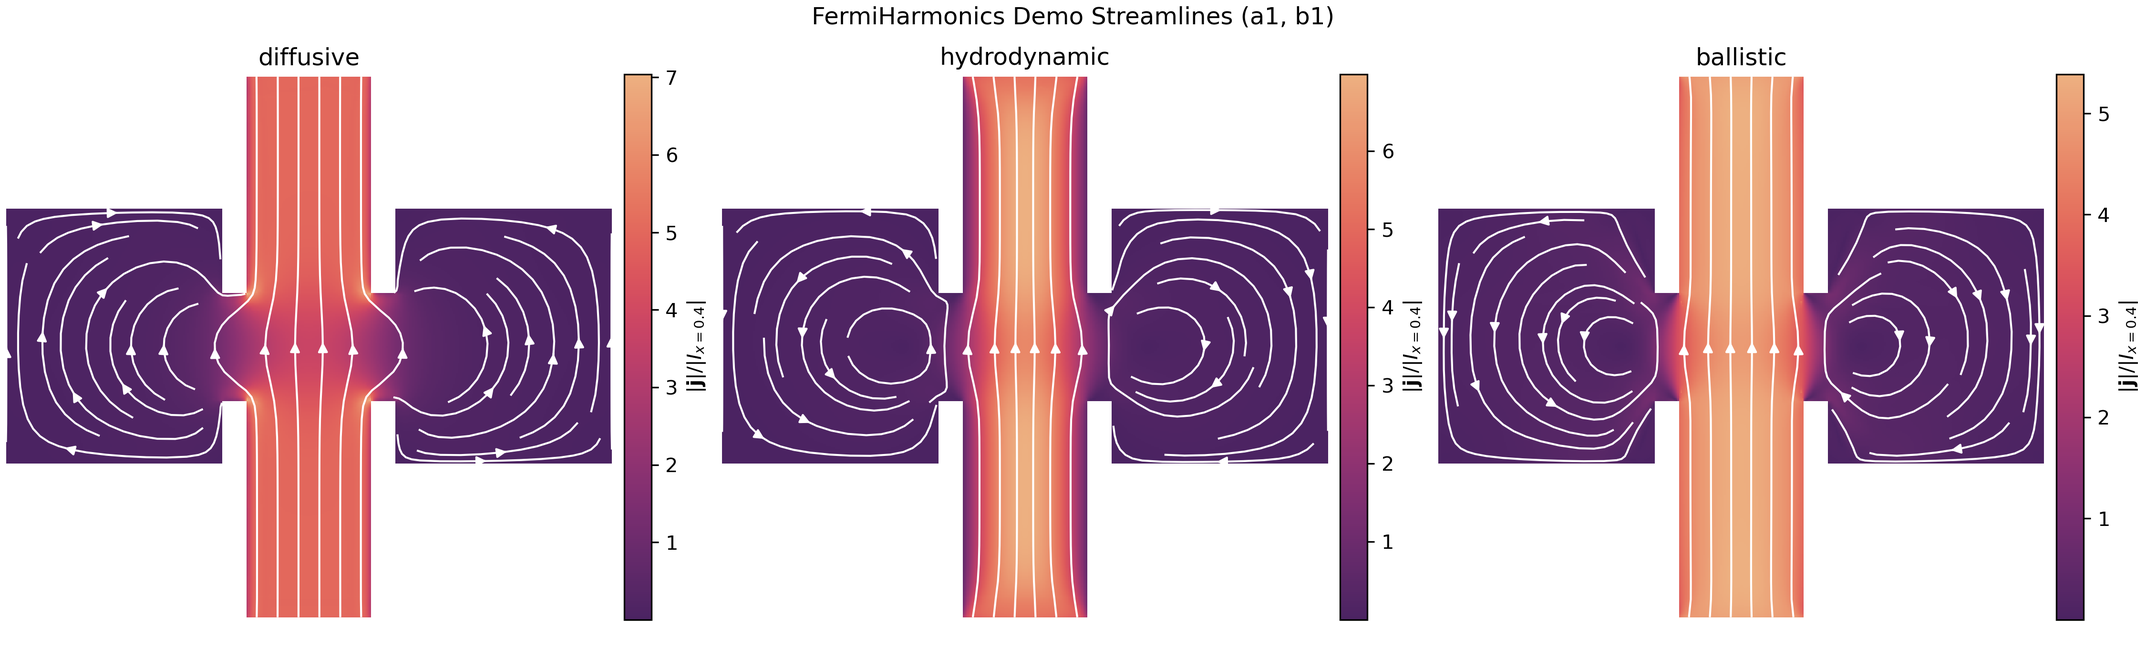
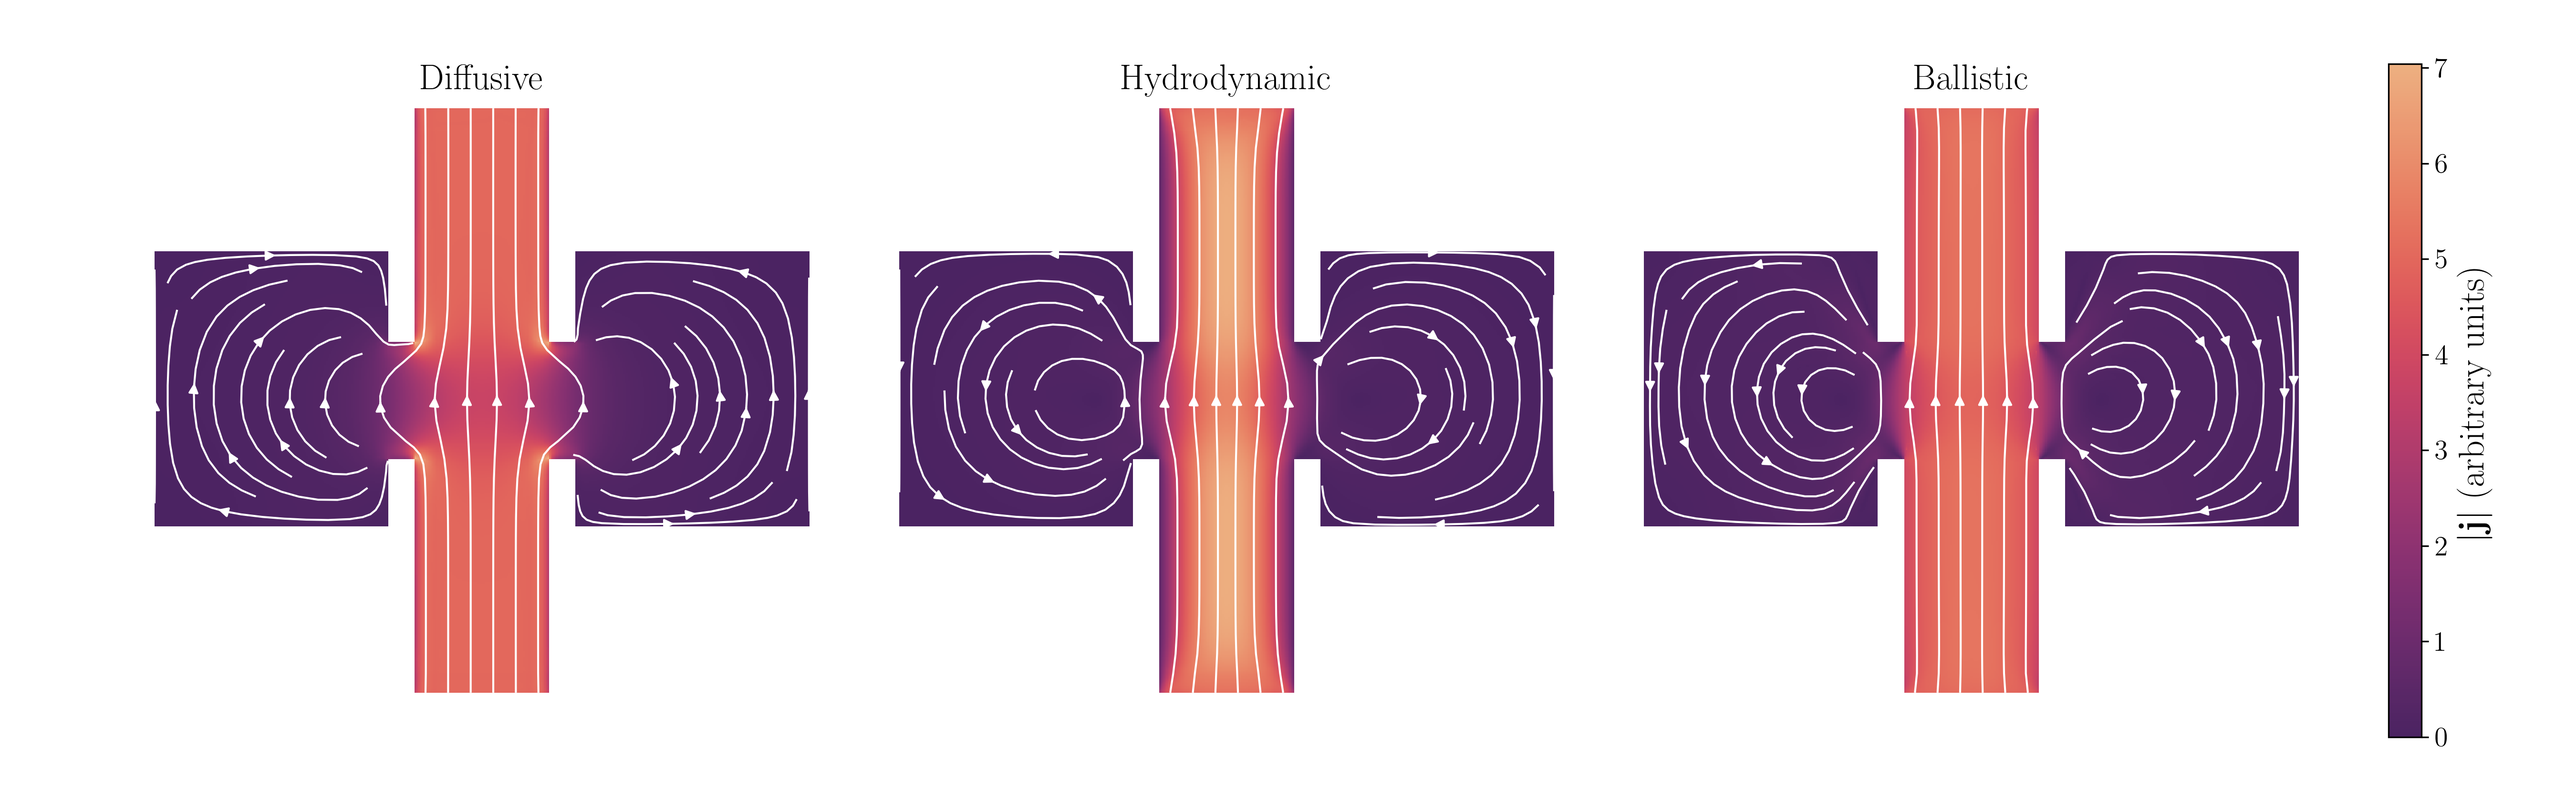
improve the demo plot

diff --git a/demo/plot_regime_streamlines.py b/demo/plot_regime_streamlines.py
@@ -1,5 +1,6 @@
-#!/usr/bin/env python3
-"""Plot current magnitude and streamlines for ballistic, hydrodynamic, and diffusive demo outputs."""
+"""
+Plot current magnitude and streamlines for ballistic, hydrodynamic, and diffusive demo outputs.
+"""
 
 from __future__ import annotations
 
@@ -9,6 +10,25 @@ import h5py
 import matplotlib.pyplot as plt
 import numpy as np
 import seaborn as sns
+
+plt.rcParams.update({
+    "text.usetex": True,
+    "font.family": "serif",
+    "font.serif": ["Computer Modern Roman", "Times New Roman", "DejaVu Serif"],
+    "font.size": 16,
+    "axes.labelsize": 18,
+    "xtick.labelsize": 14,
+    "ytick.labelsize": 14,
+})
+
+def integrated_current_at_x(x: np.ndarray, y: np.ndarray, v: np.ndarray, x_cut: float = 0.4) -> float:
+    # Use y-current (b1) integrated along y at fixed x = x_cut.
+    ix = int(np.argmin(np.abs(x - x_cut)))
+    v_line = v[ix, :]
+    valid = np.isfinite(v_line)
+    if np.count_nonzero(valid) < 2:
+        raise RuntimeError(f"Not enough valid points to integrate current at x={x[ix]:.6g}")
+    return float(np.trapz(v_line[valid], y[valid]))
 
 
 def load_fields(path: Path) -> tuple[np.ndarray, np.ndarray, np.ndarray, np.ndarray]:
@@ -24,51 +44,64 @@ def load_fields(path: Path) -> tuple[np.ndarray, np.ndarray, np.ndarray, np.ndar
     return x, y, u, v
 
 
-def integrated_current_at_x(x: np.ndarray, y: np.ndarray, v: np.ndarray, x_cut: float = 0.4) -> float:
-    # Use the y-current (b1) integrated along y at fixed x = x_cut.
-    ix = int(np.argmin(np.abs(x - x_cut)))
-    v_line = v[ix, :]
-    valid = np.isfinite(v_line)
-    if np.count_nonzero(valid) < 2:
-        raise RuntimeError(f"Not enough valid points to integrate current at x={x[ix]:.6g}")
-    return float(np.trapz(v_line[valid], y[valid]))
-
-
 data_dir = Path(__file__).resolve().parent / "data"
 out_path = Path(__file__).resolve().parent / "streamlines.png"
 dpi = 300
 regimes = ["diffusive", "hydrodynamic", "ballistic"]
 x_cut = 0.4
 
-fig, axes = plt.subplots(1, 3, figsize=(15, 4.6), constrained_layout=True)
+fig = plt.figure(figsize=(18, 5.6), constrained_layout=False)
+gs = fig.add_gridspec(
+    1,
+    4,
+    width_ratios=[1.0, 1.0, 1.0, 0.05],
+    wspace=0.18,
+    left=0.06,
+    right=0.94,
+    bottom=0.08,
+    top=0.92,
+)
+axes = [fig.add_subplot(gs[0, i]) for i in range(3)]
+cax = fig.add_subplot(gs[0, 3])
 cmap_icefire = sns.color_palette("flare_r", as_cmap=True)
+last_pcm = None
 
 # Determine common axis limits across all regimes
 all_xlims, all_ylims = [], []
+field_data: list[tuple[str, np.ndarray, np.ndarray, np.ndarray, np.ndarray]] = []
+speed_norm_max = 0.0
 for regime in regimes:
     file_path = data_dir / f"{regime}.h5"
     if not file_path.is_file():
         raise FileNotFoundError(f"Missing file: {file_path}")
-    x, y, _, _ = load_fields(file_path)
+    x, y, u, v = load_fields(file_path)
     all_xlims.extend([x.min(), x.max()])
     all_ylims.extend([y.min(), y.max()])
-
-common_xlim = (min(all_xlims), max(all_xlims))
-common_ylim = (min(all_ylims), max(all_ylims))
-
-for ax, regime in zip(axes, regimes):
-    file_path = data_dir / f"{regime}.h5"
-    x, y, u, v = load_fields(file_path)
     line_current = integrated_current_at_x(x, y, v, x_cut=x_cut)
     line_scale = max(abs(line_current), 1e-14)
     u_norm = u / line_scale
     v_norm = v / line_scale
+    speed_norm = np.hypot(u_norm, v_norm)
+    local_max = np.nanmax(speed_norm)
+    if np.isfinite(local_max):
+        speed_norm_max = max(speed_norm_max, float(local_max))
+    field_data.append((regime, x, y, u_norm, v_norm))
+
+common_xlim = (min(all_xlims), max(all_xlims))
+common_ylim = (min(all_ylims), max(all_ylims))
+if speed_norm_max <= 0:
+    speed_norm_max = 1.0
+
+for ax, (regime, x, y, u_norm, v_norm) in zip(axes, field_data):
     speed = np.hypot(u_norm, v_norm)
     speed_masked = np.ma.masked_invalid(speed)
     u_masked = np.ma.masked_invalid(u_norm)
     v_masked = np.ma.masked_invalid(v_norm)
 
-    pcm = ax.pcolormesh(x, y, speed_masked, cmap=cmap_icefire, shading='auto')
+    pcm = ax.pcolormesh(
+        x, y, speed_masked, cmap=cmap_icefire, shading='auto', vmin=0.0, vmax=speed_norm_max
+    )
+    last_pcm = pcm
     ax.streamplot(
         x,
         y,
@@ -81,11 +114,17 @@ for ax, regime in zip(axes, regimes):
         minlength=0.2,
         integration_direction='both',
     )
-    fig.colorbar(pcm, ax=ax, pad=0.02, shrink=0.9, label=r"$|\mathbf{j}| / |I_{x=0.4}|$")
-
     ax.set_xlim(common_xlim)
     ax.set_ylim(common_ylim)
-    ax.set_title(regime)
+    ax.text(
+        0.5,
+        1.02,
+        regime.capitalize(),
+        transform=ax.transAxes,
+        ha="center",
+        va="bottom",
+        fontsize=18,
+    )
     ax.set_xlabel("")
     ax.set_ylabel("")
     ax.set_xticks([])
@@ -94,7 +133,12 @@ for ax, regime in zip(axes, regimes):
         spine.set_visible(False)
     ax.set_aspect("equal")
 
-fig.suptitle("FermiHarmonics Demo Streamlines (a1, b1)")
 out_path.parent.mkdir(parents=True, exist_ok=True)
+if last_pcm is not None:
+    fig.colorbar(
+        last_pcm,
+        cax=cax,
+        label=r"$|\mathbf{j}|$ (arbitrary units)",
+    )
 fig.savefig(out_path, dpi=dpi)
 print(f"saved: {out_path}")
